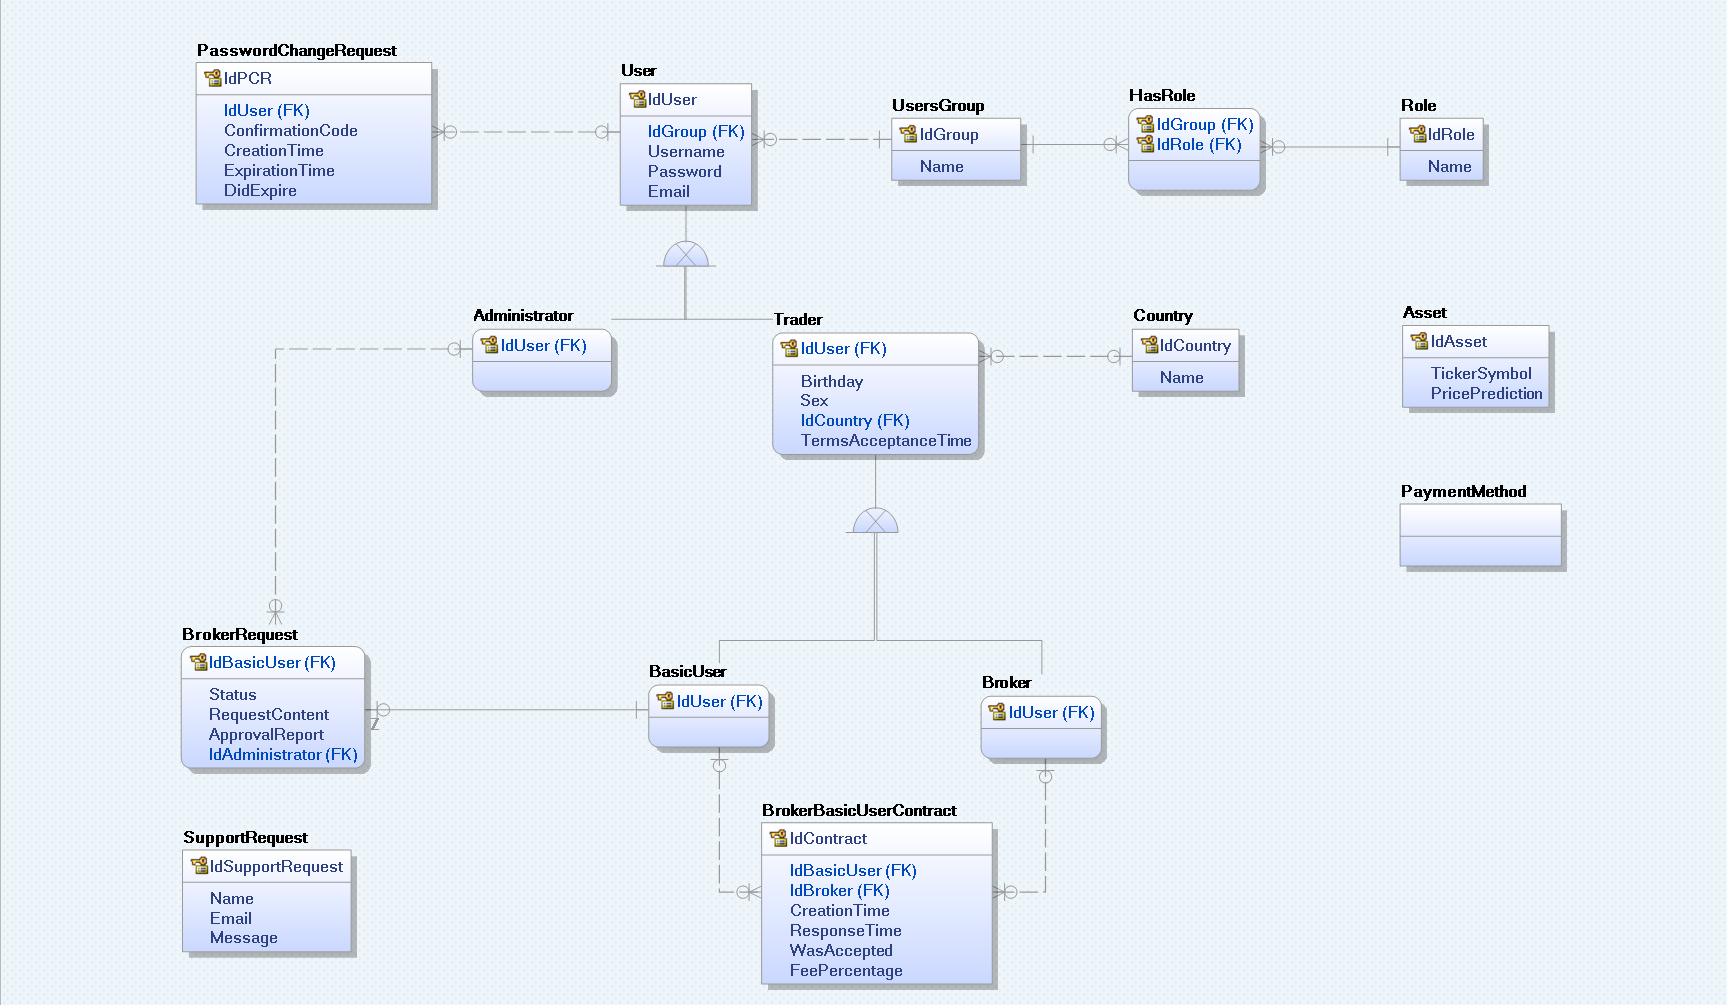
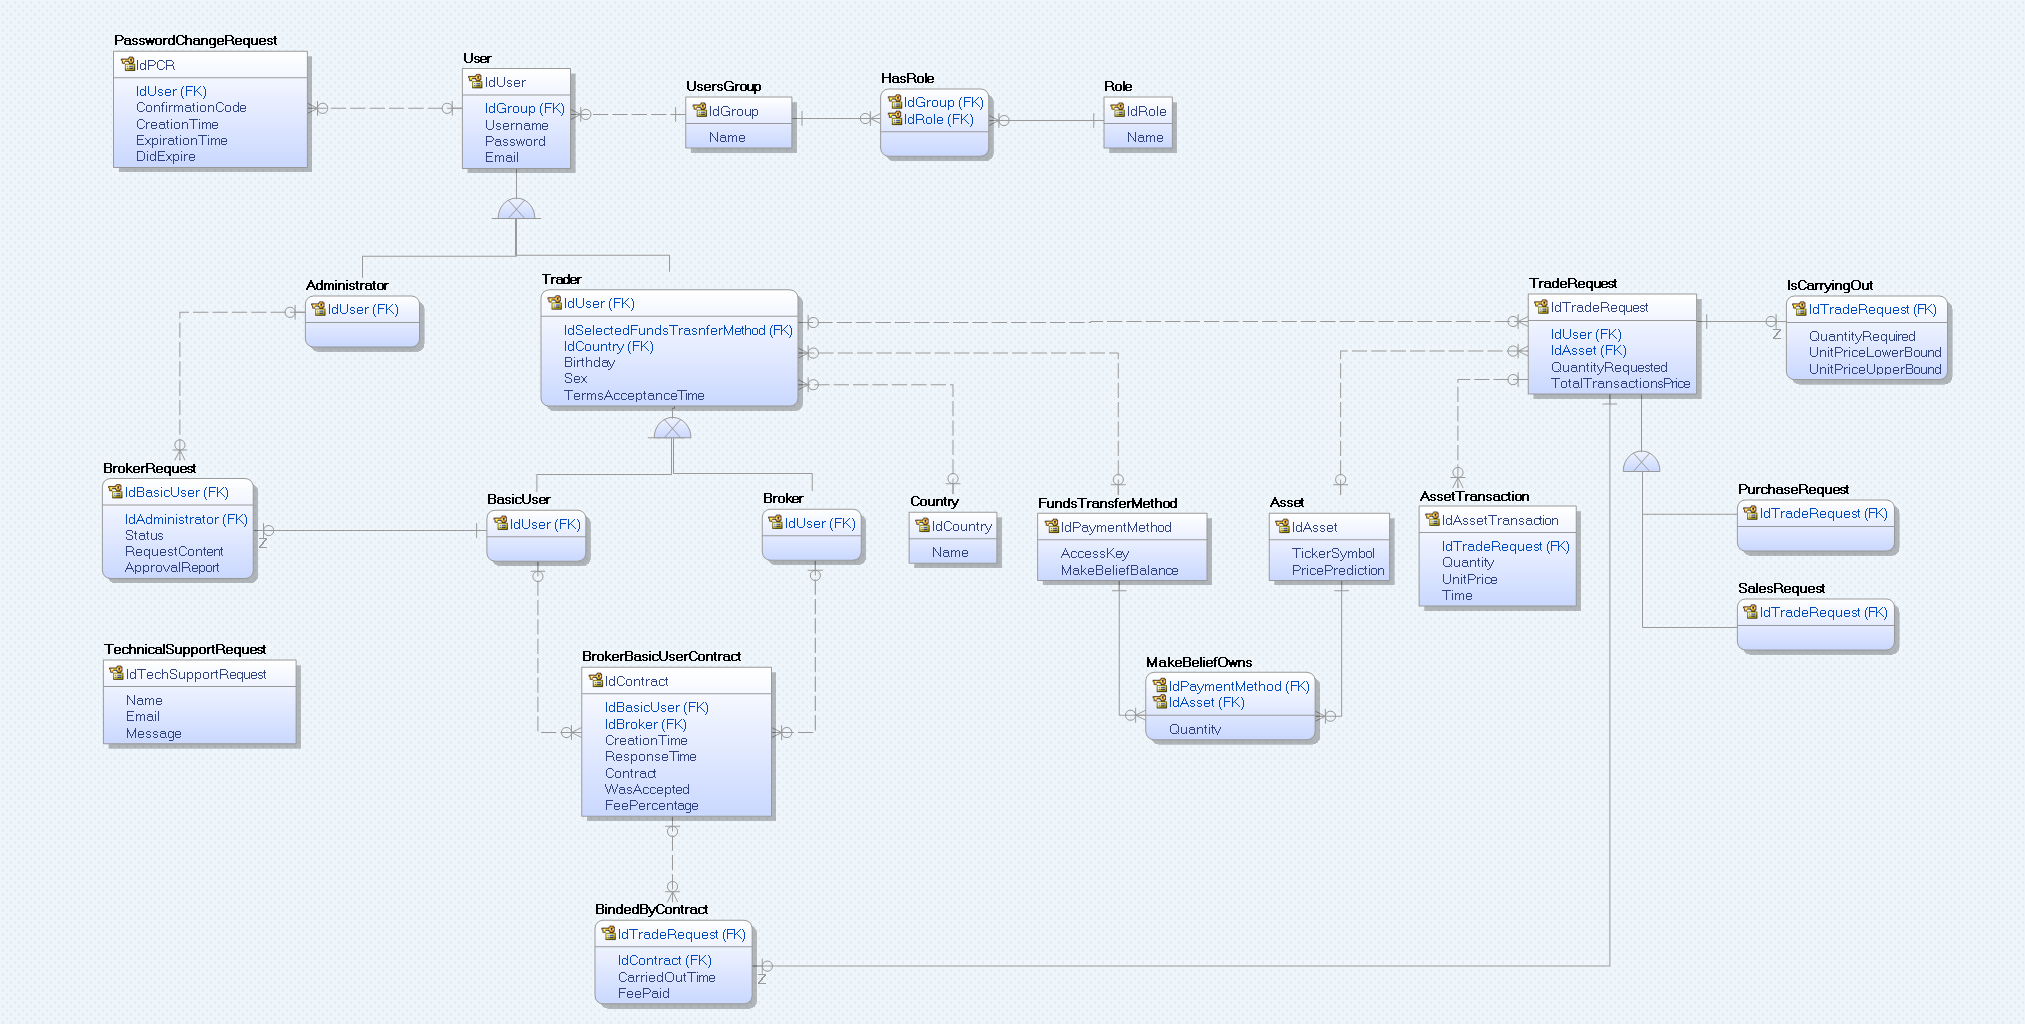
Completed first version of full SQL database logical design, not reduction nor redundances, no indices considered yer. Also added notes in README.md and features.docx.

diff --git a/documentation/database/README.md b/documentation/database/README.md
@@ -18,10 +18,45 @@ Consider obfuscating and dirtifying the js. When checking the box to predict fut
 endpoint with query param that matches the company id and fetches the data and the time when the prediction was
 calculated.
 
-BrokerRequest perfect for nosql.
+BrokerRequest perfect for nosql, but why since it does not need to be fast, plus django could handle this real
+nice with admin page funcs it has.
 SupportRequest perfect for nosql.
 Storing predictions on asset price perfect for nosql.
 
 TickerSymbol should be unique.
 Username should be unique ???
 Email should be unique ???
+Quantity must be striclty greater than 0.
+
+Explain what is ticker symbol in Section 1.4 in db specificatio doc.
+
+Should relational db reduction be done at this phase or when we get to implementation ??
+
+Sharding could be done based on trader's country on portfolios.
+
+TradeRequest in sql IE db is an active trade request, inactive ones are in nosql in portfolios.
+
+Checking if there is enough money per transaction is done application wise, but if not relying on other sys such
+as banking system to store the info about the user's balance then it is within the PaymentMethod.
+
+Key in PaymentMethod must be encrypted.
+Password in User must be encrypted.
+
+One AssetTransaction is identified by TradeRequest since it may not have been fulfilled 
+
+Chronological sort of trader requests in portfolio is done by IdTradeRequest since it will be auto increment,
+same thing for matching requests.
+
+Trader within app sets the user they are trading for at the moment, they can view only that users
+requests then (should only view the ones they made themself)
+
+IdUser in TradeRequest represents the user who will own the asset or the funds (so brokers client in case of
+broker trading in name of their client).
+
+Broker could based on contract id see all the trades they made.
+QuantityReserved are assets acquired over trade request
+FeePaid is the amount of money transferred to broker after entire traderequest was carried out, in case of insufficient
+funds this field has negative value and basic user is in breach of contract which is now broker's to handle. Better than
+bool as it is useful info for further analysis.
+
+
